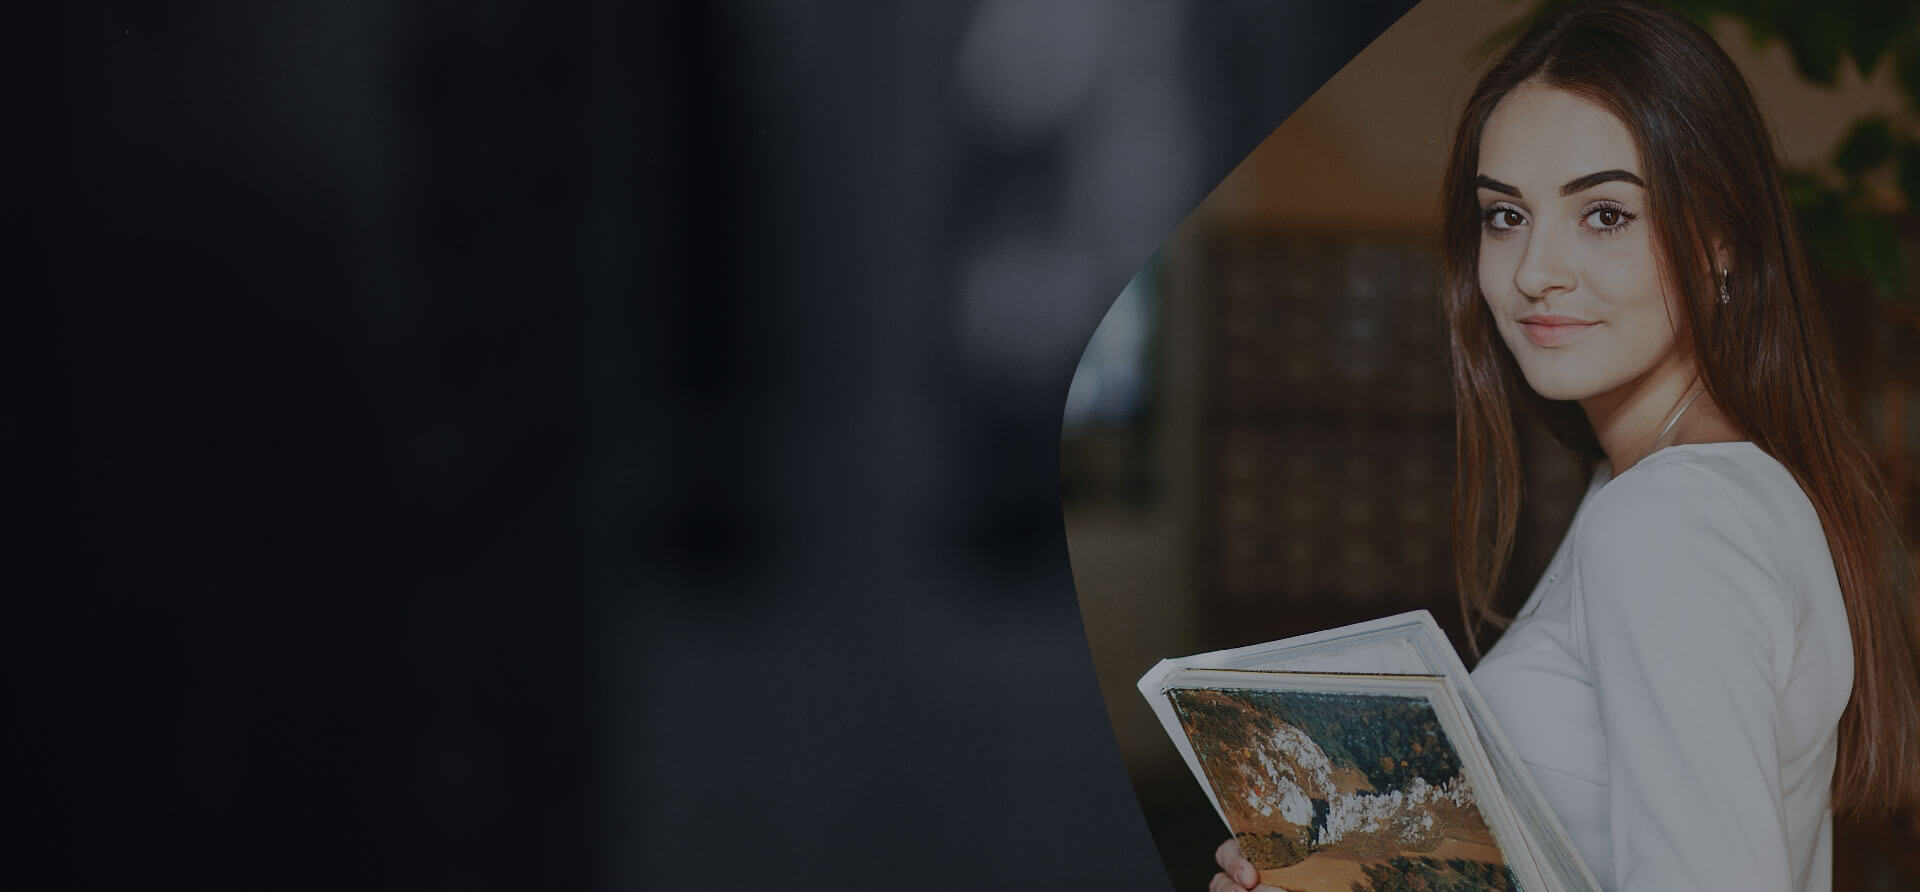
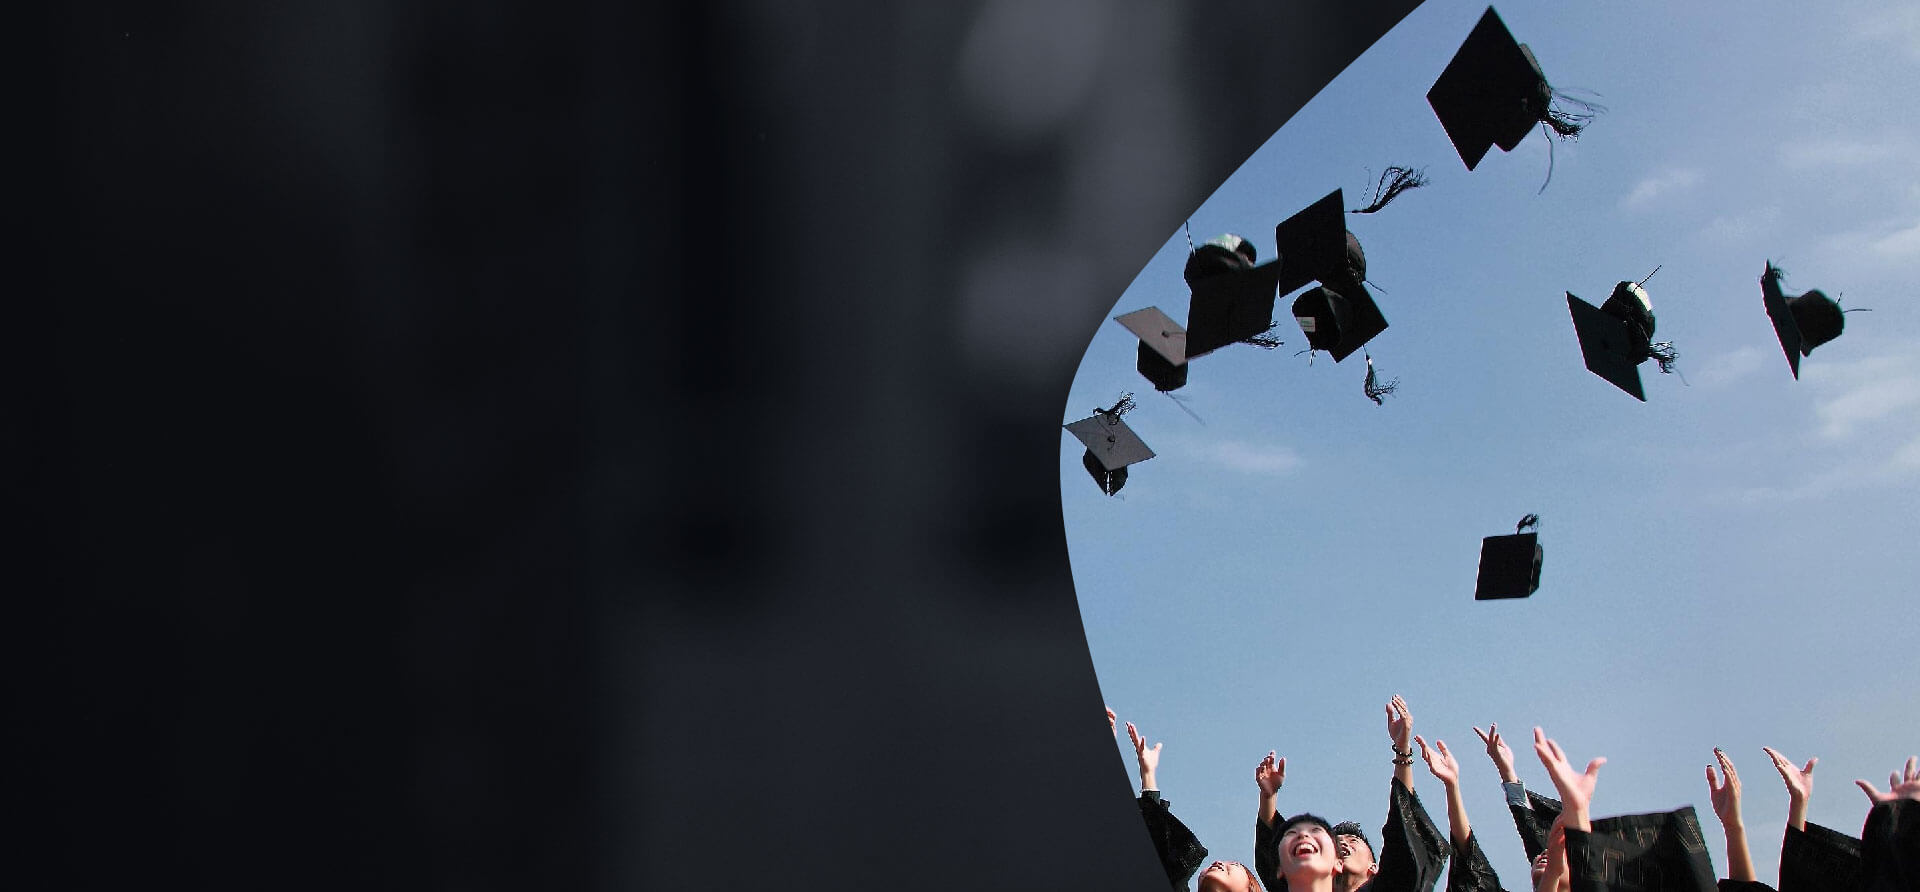
Home About

diff --git a/index.html b/index.html
@@ -50,10 +50,10 @@
                     <div class="col-sm-4">
                         <div class="ht-social">
                             <ul>
-                                <li><a href="#"><i class="fa fa-facebook-square"></i></a></li>
-                                <li><a href="#"><i class="fa fa-linkedin-square"></i></a></li>
-                                <li><a href="#"><i class="fa fa-instagram"></i></a></li>
-                                <li><a href="#"><i class="fa fa-youtube-square"></i></a></li>
+                                <li><a href="https://www.facebook.com/GeorgeGroupOfCollegesOfficial"><i class="fa fa-facebook-square"></i></a></li>
+                                <li><a href="https://www.linkedin.com/company/georgegroupofcollegesofficial/?originalSubdomain=in"><i class="fa fa-linkedin-square"></i></a></li>
+                                <li><a href="https://www.instagram.com/georgegroupofcollegesofficial/"><i class="fa fa-instagram"></i></a></li>
+                                <li><a href="https://www.youtube.com/channel/UC14mp0zdKk0LsWsY_TAVvQg"><i class="fa fa-youtube-square"></i></a></li>
                             </ul>
                         </div>
                     </div>
@@ -82,7 +82,7 @@
                                                 <li><a href="index3.html">Home Three</a></li>
                                             </ul>
                                         </li>
-                                        <li><a href="about.html">About</a></li>
+                                        <li><a href="#about">About</a></li>
                                         <li><a href="javascript:void(0);">Courses</a>
                                             <ul class="submenu">
                                                 <li><a href="courses.html">courses</a></li>
@@ -143,20 +143,6 @@
 
     <!-- slider area start -->
     <div class="slider-area owl-carousel has-color">
-        <div class="slider_item" style="background: url(assets/images/bg/slider-bg1.jpg) center/cover no-repeat;">
-            <div class="container">
-                <div class="row">
-                    <div class="col-lg-7 col-md-9">
-                        <div class="slider-content">
-                            <h3>admission ‘ 24</h3>
-                            <h1><span class="primary-color" >Your bright future</span> is Our Mission</h1>
-                            <p>Lorem ipsum dolor sit amet, consectetur adipisicing elit, sed do eiusmod tempor incididunt ut labore dolore</p>
-                            <a class="btn btn-primary btn-round btn-lg mt-5" href="#">Start Learning Now</a>
-                        </div>
-                    </div>
-                </div>
-            </div>
-        </div>
         <div class="slider_item" style="background: url(assets/images/bg/slider-bg2.jpg) center/cover no-repeat;">
             <div class="container">
                 <div class="row">
@@ -171,7 +157,21 @@
                 </div>
             </div>
         </div>
-        <div class="slider_item" style="background: url(assets/images/bg/slider-bg3.jpg) center/cover no-repeat;">
+        <div class="slider_item" style="background: url(assets/images/bg/slider-bg3.png) center/cover no-repeat;">
+            <div class="container">
+                <div class="row">
+                    <div class="col-lg-7 col-md-9">
+                        <div class="slider-content">
+                            <h3>admission ‘ 24</h3>
+                            <h1><span class="primary-color" >Your bright future</span> is Our Mission</h1>
+                            <p>Lorem ipsum dolor sit amet, consectetur adipisicing elit, sed do eiusmod tempor incididunt ut labore dolore</p>
+                            <a class="btn btn-primary btn-round btn-lg mt-5" href="#">Start Learning Now</a>
+                        </div>
+                    </div>
+                </div>
+            </div>
+        </div>
+        <div class="slider_item" style="background: url(assets/images/bg/slider-bg1.jpg) center/cover no-repeat;">
             <div class="container">
                 <div class="row">
                     <div class="col-lg-7 col-md-9">
@@ -187,6 +187,31 @@
         </div>
     </div>
 
+        <!-- about area start -->
+    <div id="about" class="about-area ptb--120">
+        <div class="container">
+            <div class="row">
+                <div class="col-lg-6">
+                    <div class="about-left-content">
+                        <div class="section-title">
+                            <span class="text-uppercase">about us</span>
+                            <h2>Welcome to</h2><h2><span>Our </span> <span class="primary-color">George College</span></h2> 
+                        </div>
+                        <p>Eaque ipsa quae ab illo inventore veritatis et quasi architecto beatae vitae dicta sunt explicabo. Nemo enim ipsam voluptatem quia voluptas sit aspernatur aut odit aut fugit, sed quia consequuntur magni dolores eos qui ratione voluptatem sequi nesciunt. Neque porro quisquam est, qui dolorem ipsum quia incidunt ut labore et dolore magnam aliquam quaerat voluptatem.</p>
+                        <a class="btn btn-primary btn-round" href="about.html">Read more</a>
+                    </div>
+                </div>
+                <div class="col-lg-6">
+                    <div class="abt-right-thumb">
+                        <div class="abt-rt-inner">
+                            <a class="expand-video" href="https://www.youtube.com/watch?v=8U63dwhzObQ"><i class="fa fa-play"></i></a>
+                        </div>
+                    </div>
+                </div>
+            </div>
+        </div>
+    </div>
+    <!-- about area end -->
 
     <!-- jquery latest version -->
     <script src="assets/js/vendor/jquery-2.2.4.min.js"></script>

diff --git a/assets/css/styles.css b/assets/css/styles.css
@@ -620,7 +620,8 @@ a:hover {
 .abt-rt-inner {
   height: 100%;
   display: flex;
-  background: url(../images/about/abt-right-thumb.jpg) center/cover no-repeat;
+  background: url(../images/about/gcms.jpg) right/cover no-repeat;
+  border: 2px solid var(--meta-color);
 }
 
 a.expand-video {
